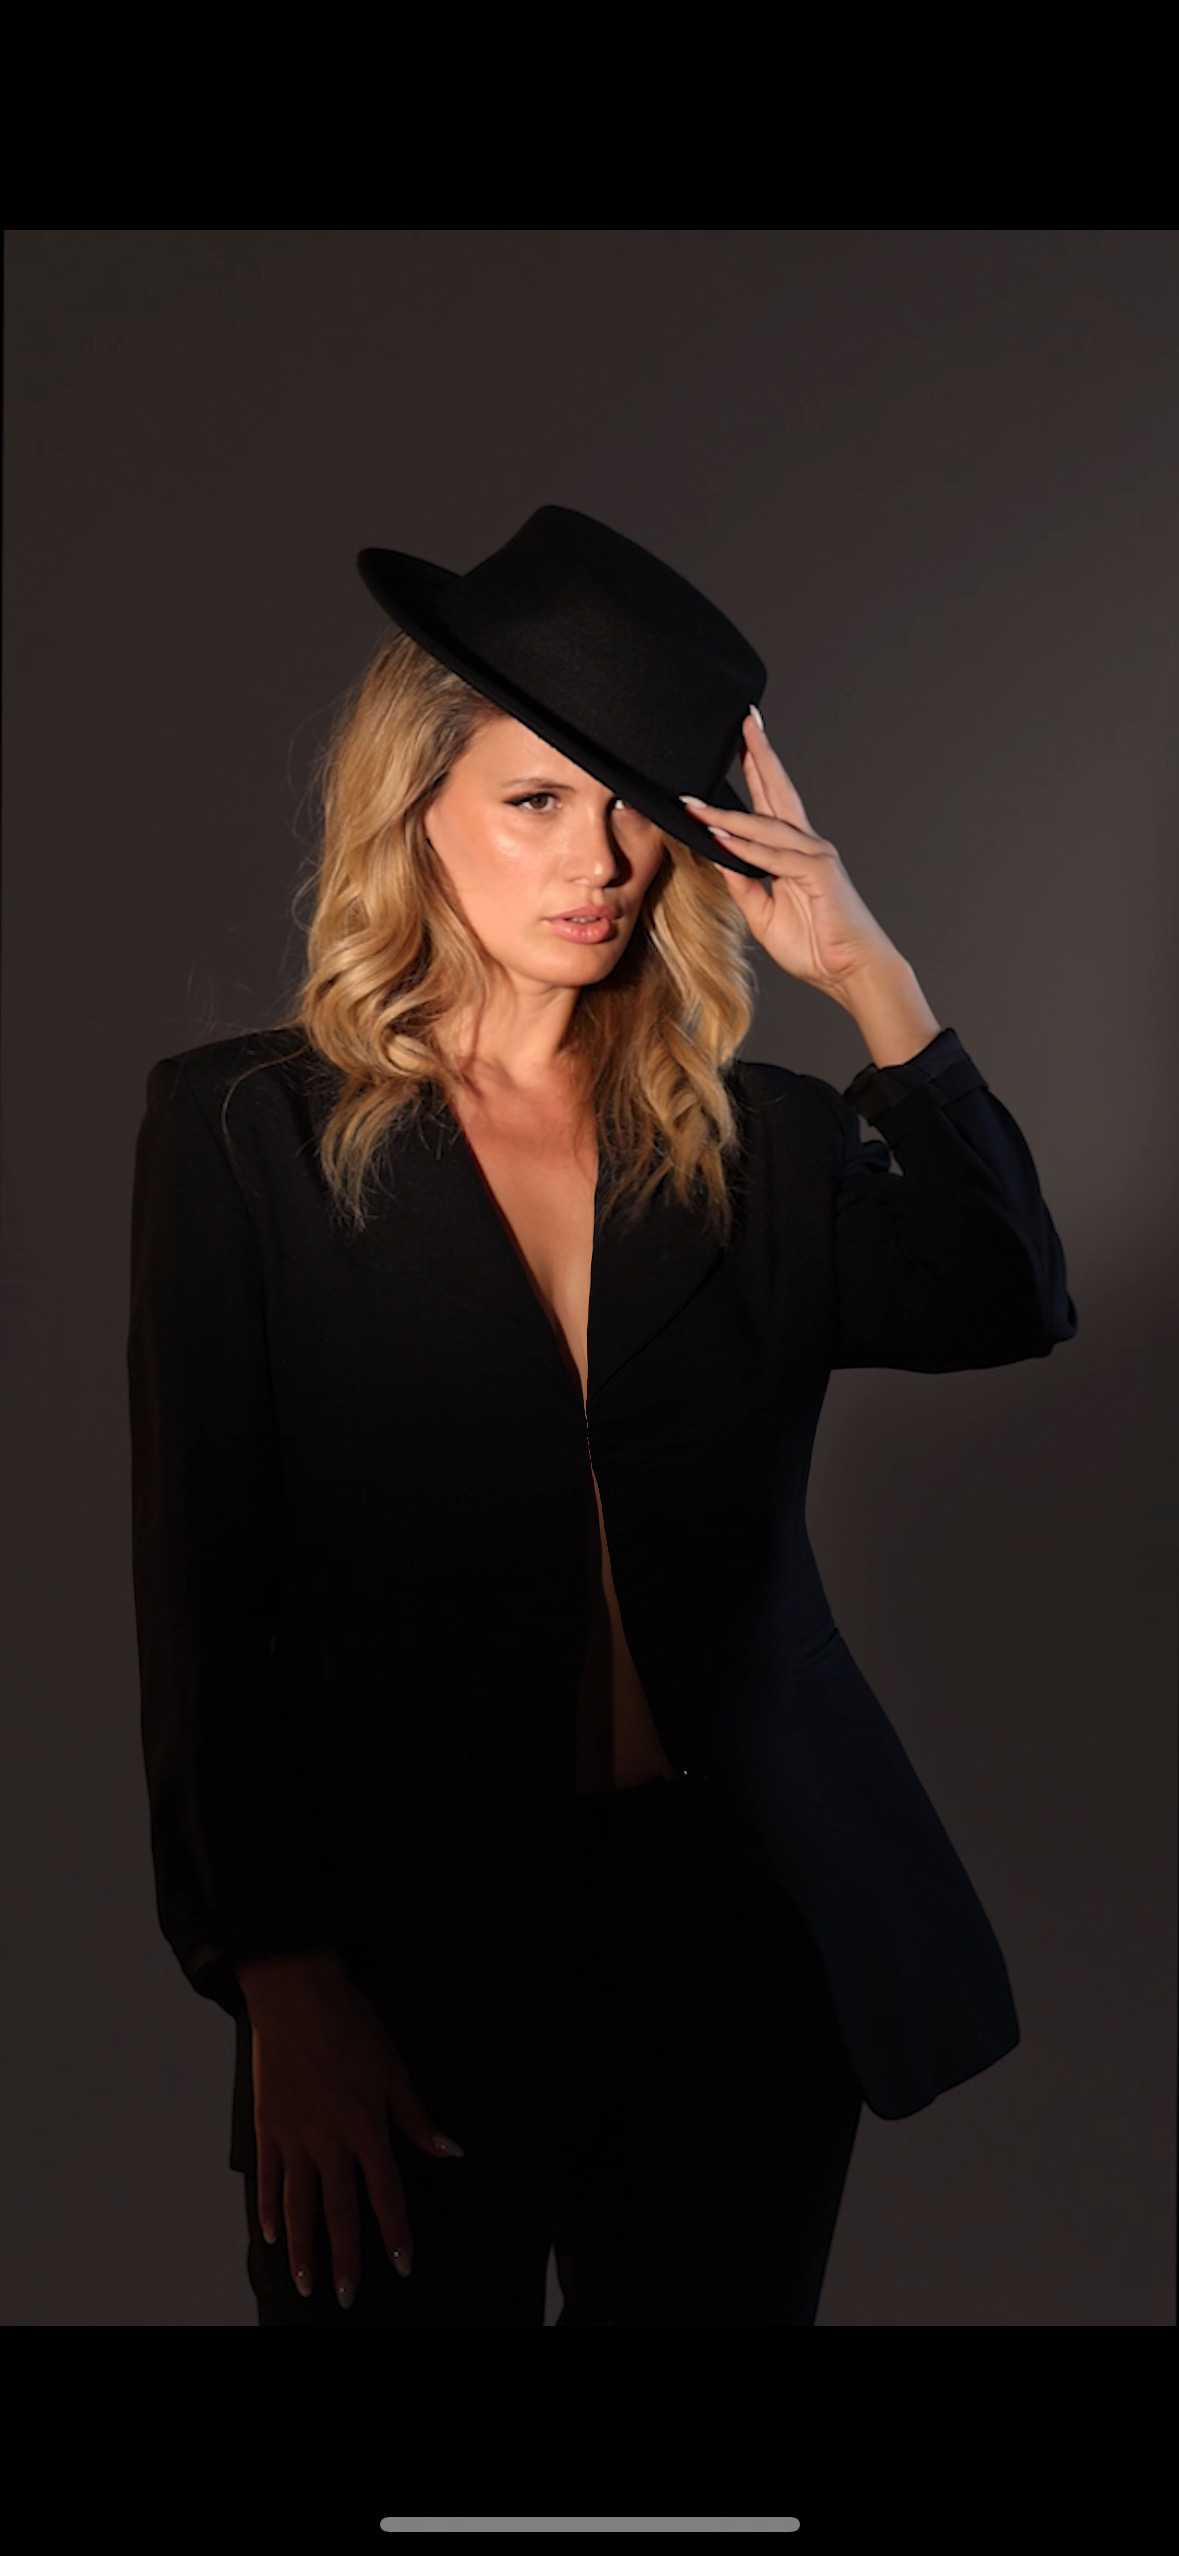
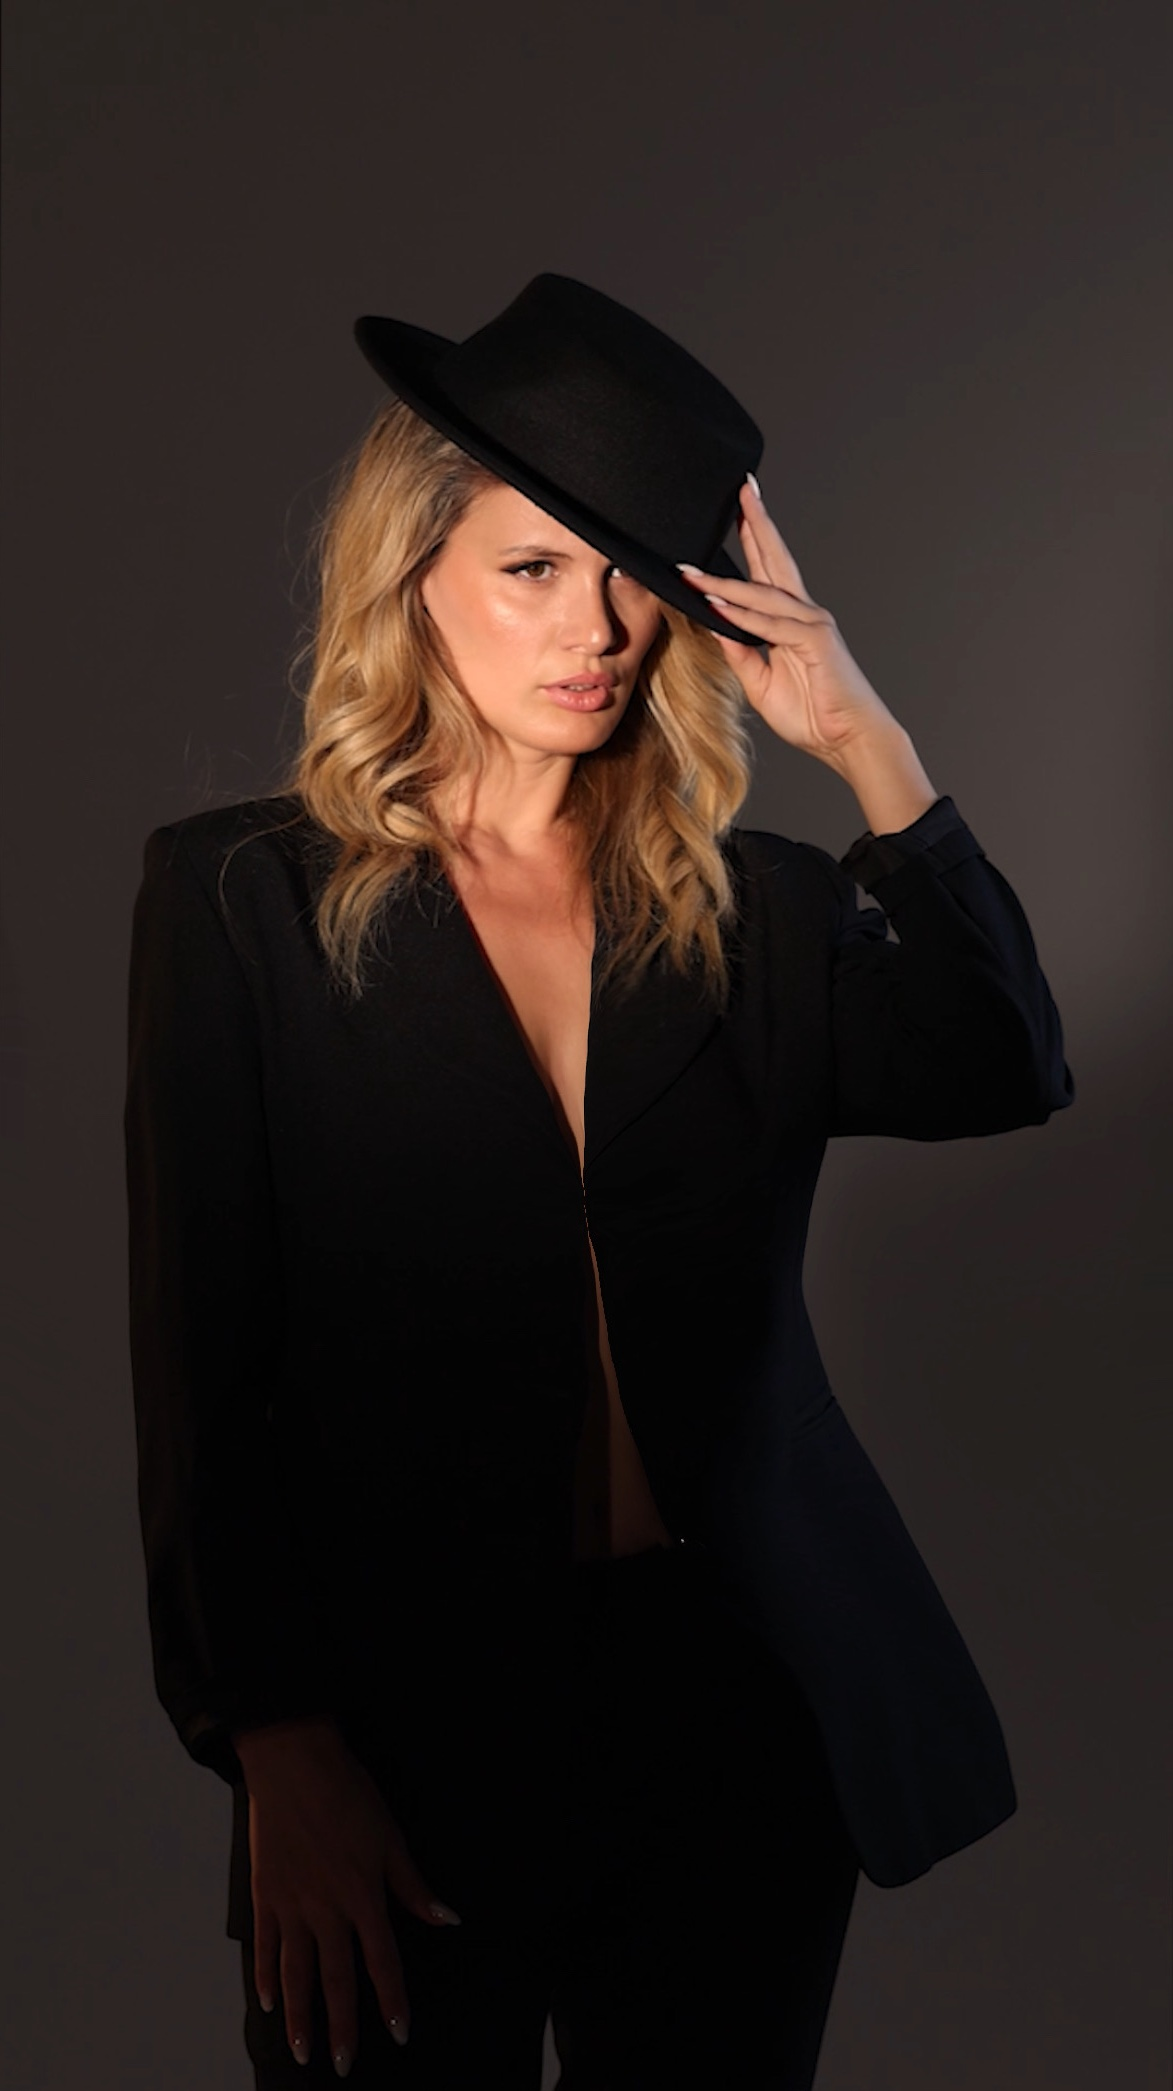
Update measurements, add new photos in requested order

diff --git a/index.html b/index.html
@@ -107,13 +107,13 @@
 
   <!-- პარამეტრები — შეცვალე შენი მონაცემებით -->
   <dl class="stats">
-    <div class="stat"><dt>Height</dt><dd>175</dd></div>
-    <div class="stat"><dt>Bust</dt><dd>86</dd></div>
-    <div class="stat"><dt>Waist</dt><dd>62</dd></div>
-    <div class="stat"><dt>Hips</dt><dd>90</dd></div>
+    <div class="stat"><dt>Height</dt><dd>176</dd></div>
+    <div class="stat"><dt>Bust</dt><dd>93</dd></div>
+    <div class="stat"><dt>Waist</dt><dd>72</dd></div>
+    <div class="stat"><dt>Hips</dt><dd>94</dd></div>
     <div class="stat"><dt>Hair</dt><dd>Blonde</dd></div>
     <div class="stat"><dt>Eyes</dt><dd>Brown</dd></div>
-    <div class="stat"><dt>Shoe</dt><dd>38</dd></div>
+    <div class="stat"><dt>Shoe</dt><dd>39</dd></div>
   </dl>
 
   <div class="slider" id="slider">
@@ -149,13 +149,25 @@
 <script>
   // ფოტოები — ახალი ფოტოს დასამატებლად უბრალოდ ჩაამატე ფაილის სახელი
   const photos = [
+    "IMG_4404.PNG",
     "IMG_4354.JPEG",
     "IMG_2011.JPG.jpeg",
+    "IMG_4327.JPEG",
+    "IMG_4345.JPEG",
     "IMG_4344.JPEG",
-    "IMG_2847.JPEG",
+    "IMG_2855.JPEG",
+    "IMG_2860.JPEG",
+    "IMG_2848.JPEG",
     "IMG_2672.JPEG",
-    "IMG_4343.JPEG",
-    "IMG_4327.JPEG"
+    "IMG_2847.JPEG",
+    "IMG_2650.PNG",
+    "IMG_2658.WEBP",
+    "IMG_2648.PNG",
+    "IMG_2649.PNG",
+    "IMG_2601.JPEG",
+    "IMG_2624.JPEG",
+    "IMG_1786.JPG.jpeg",
+    "IMG_1695.JPG.jpeg"
   ];
 
   const slider = document.getElementById("slider");
